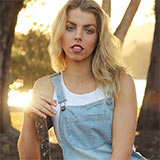
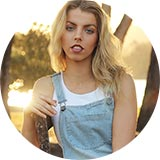
the very final

diff --git a/comments.html b/comments.html
@@ -66,7 +66,7 @@
         </div>
 
         <div class="feedback clearfix">
-          <img src="img/f_ava-3.png" alt="avatar" class="feedback__avatar">
+          <img src="img/f_ava-3.jpg" alt="avatar" class="feedback__avatar">
           <ul class="feedback__items clearfix">
             <li class="feedback__item--date">22.12.2015</li>
             <li class="feedback__item--name">Игорь Николаенко</li>
